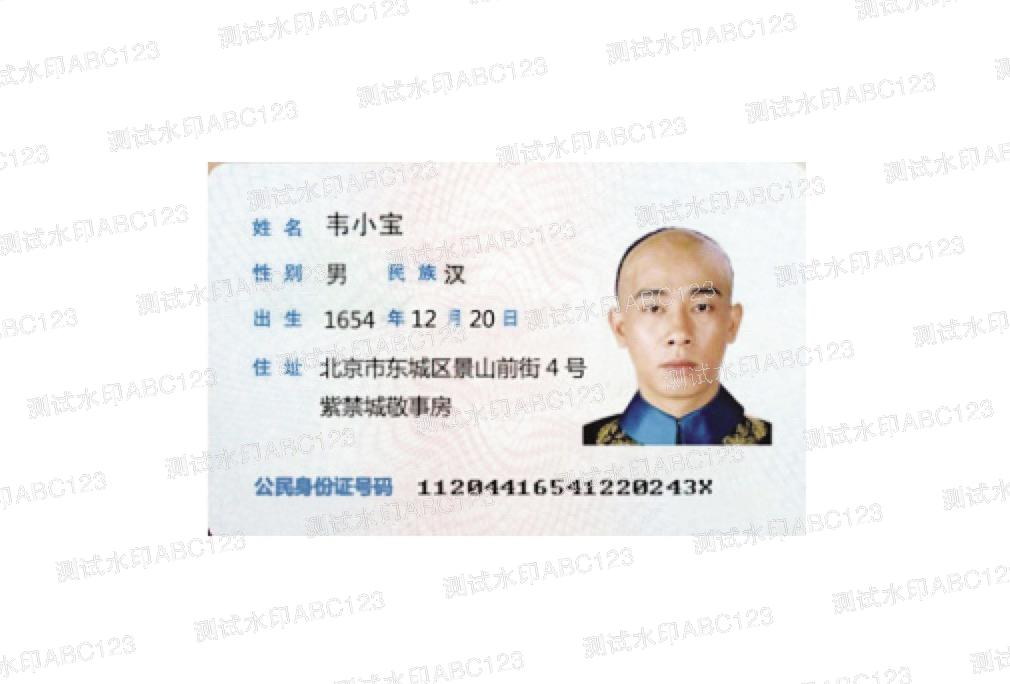
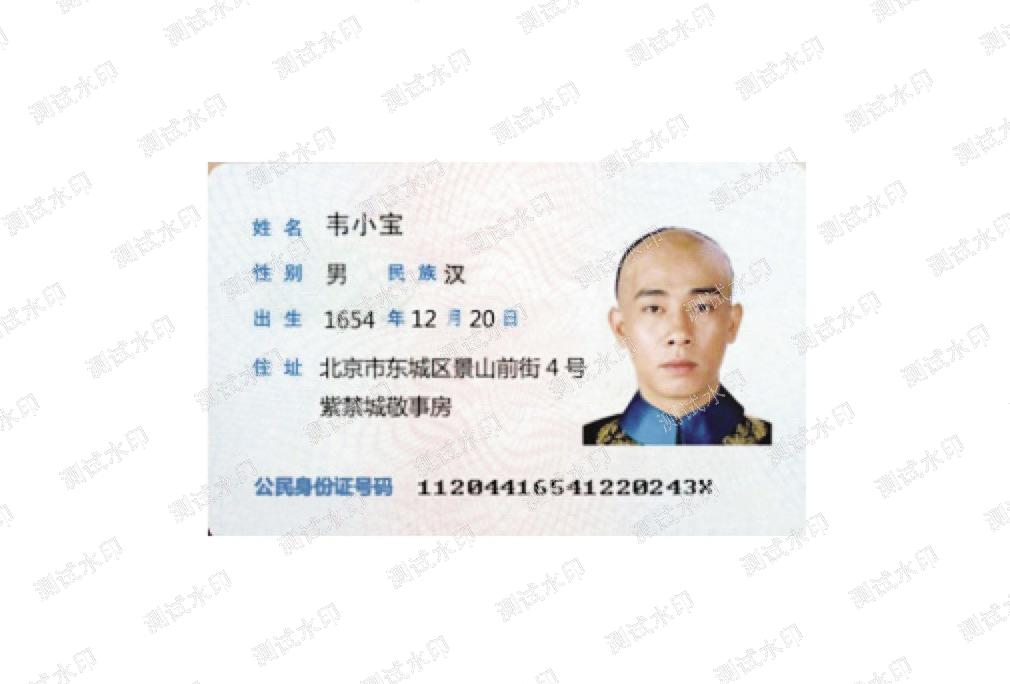
[ADD] 打包配置优化；

diff --git a/setup.py b/setup.py
@@ -12,7 +12,7 @@ from setuptools import find_packages
 
 setup(
 	name='watermark2',
-	version='1.0.2',
+	version='1.0.3',
 	description=(
 		'给图片添加文字水印，支持设置文字内容、大小、透明度、颜色、旋转等'
 	),

diff --git a/README.rst b/README.rst
@@ -20,7 +20,7 @@ watermark
 
 例子：
 
-``python3 watermark.py -m '测试水印ABC123' -f weixiaobao.jpg``
+``python3 watermark/watermark.py -m '测试水印' -f weixiaobao.jpg``
 
 具体使用参数介绍：
 

diff --git a/README.md b/README.md
@@ -15,7 +15,7 @@
 
 例子：
 
-` python3 watermark.py -m '测试水印ABC123' -f weixiaobao.jpg`
+` python3 watermark/watermark.py -m '测试水印' -f weixiaobao.jpg`
 
 具体使用参数介绍：
 
